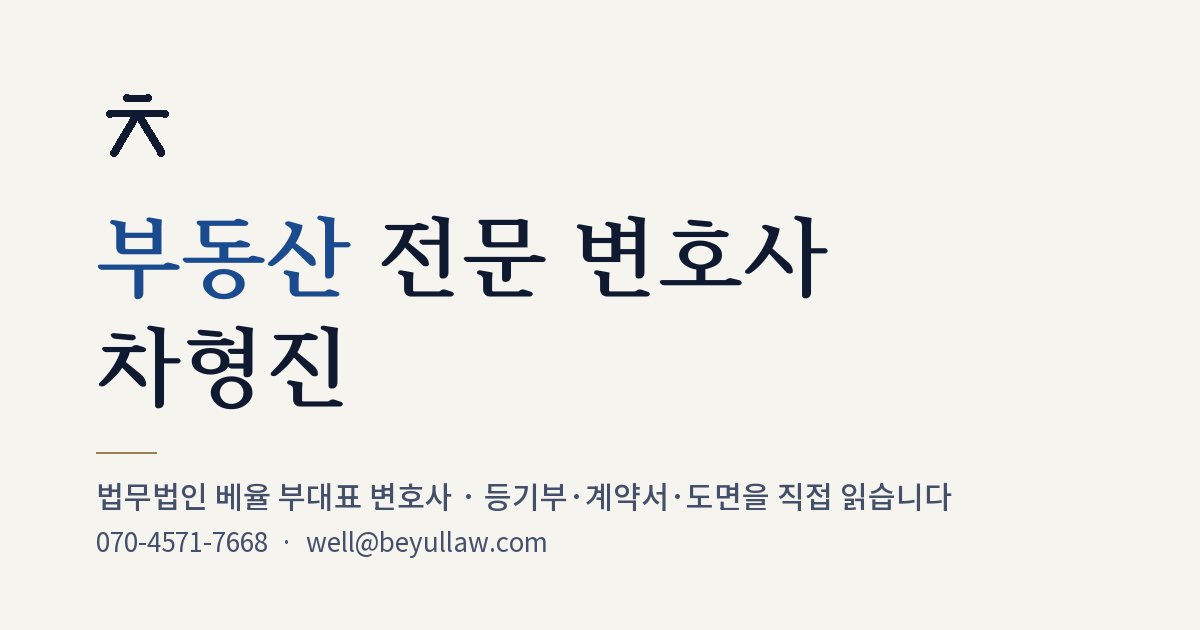
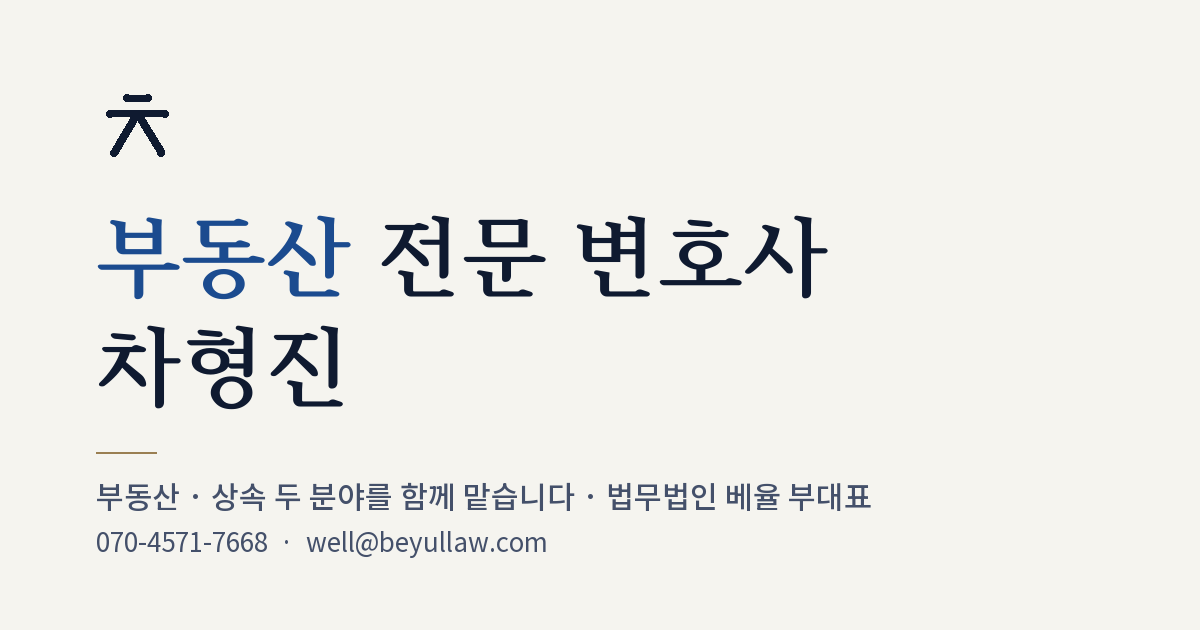
두 분야 통일: 상단 상속/부동산 전환 바, 각 홈 교차 안내 띠(CrossBand), 푸터 두 분야 안내, 소개 페이지 직함·칩·담당 분야, 구조화 데이터 knowsAbout 합침, OG 보조 문구

Changed region(s): [[0.0617, 0.754, 0.8017, 0.8143]]

diff --git a/src/styles/theme.css b/src/styles/theme.css
@@ -238,3 +238,22 @@ body .list a:hover { background: rgba(255,255,255,.7); }
   body .mk .art .ico * { stroke-dashoffset: 0 !important; animation: none !important; }
   body .btn::after { display: none; }
 }
+
+/* ---------- 두 분야 전환 바(2026.10.22): 상속·부동산 하위 사이트 공통 ---------- */
+body .sitebar { background: #0F1A30; color: #C3CAD9; font-size: 12.5px; letter-spacing: -.02em; }
+body .sitebar .in { max-width: var(--maxw); margin: 0 auto; padding: 7px max(22px, env(safe-area-inset-left, 0px)) 7px max(22px, env(safe-area-inset-right, 0px)); display: flex; align-items: center; justify-content: space-between; gap: 12px; }
+body .sitebar .sb-t b { color: #fff; font-weight: 800; }
+body .sitebar .sw { display: inline-flex; gap: 6px; flex: none; }
+body .sitebar .sw a { padding: 3px 11px; border-radius: 999px; border: 1px solid rgba(255,255,255,.28); color: #E6EAF2; text-decoration: none; font-weight: 800; font-size: 12px; line-height: 1.5; transition: background .2s, color .2s; }
+body .sitebar .sw a:hover { background: rgba(255,255,255,.14); }
+body .sitebar .sw a.cur { background: #fff; color: #0F1A30; border-color: #fff; }
+body footer .ftwo { margin: 22px 0 6px; padding: 16px 18px; border: 1px solid rgba(255,255,255,.14); border-radius: 12px; display: grid; gap: 6px; font-size: 13.5px; color: #B9C2D6; }
+body footer .ftwo b { color: #F5F4EF; font-family: var(--display); font-weight: 700; font-size: 15px; }
+body footer .ftwo a { color: var(--brass-lt); font-weight: 700; }
+body .crossband { border-top: 1px solid rgba(154,127,82,.25); border-bottom: 1px solid rgba(154,127,82,.25); background: linear-gradient(170deg, #FBFAF7, #F3F1EA); }
+body .mk .crossband h2 { font-family: var(--display); }
+@media (max-width: 640px) {
+  body .sitebar { font-size: 12px; }
+  body .sitebar .in { padding-top: 6px; padding-bottom: 6px; gap: 8px; }
+  body .sitebar .sb-t { white-space: nowrap; overflow: hidden; text-overflow: ellipsis; }
+}

diff --git a/scripts/make_og.py b/scripts/make_og.py
@@ -49,7 +49,7 @@ d.text((96, 300), '차형진', font=t1, fill=INK)
 d.line((96, 452, 156, 452), fill=BRASS, width=2)
 s1 = font(sans, 30, 'Medium')
 s2 = font(sans, 26, 'Regular')
-d.text((96, 478), '법무법인 베율 부대표 변호사 · ' + ('등기부·계약서·도면을 직접 읽습니다' if RE else '상담도 재판도 변호사가 직접 합니다'), font=s1, fill=INK2)
+d.text((96, 478), '부동산 · 상속 두 분야를 함께 맡습니다 · 법무법인 베율 부대표', font=s1, fill=INK2)
 d.text((96, 526), '070-4571-7668  ·  well@beyullaw.com', font=s2, fill=INK2)
 
 out = os.path.join(os.path.dirname(os.path.dirname(os.path.abspath(__file__))), 'public', 'og-re.png' if RE else 'og.png')

diff --git a/README.md b/README.md
@@ -35,6 +35,8 @@ functions/api/contact.js    Cloudflare Pages Function — 상담 폼 수신(Rese
 public/                     robots.txt, favicon.svg, og.png
 ```
 
+> **2026.10.22 두 분야 통일**: 어느 사이트에서 봐도 "부동산·상속 두 분야를 함께 맡는 한 변호사"로 읽히도록 상단에 상속/부동산 전환 바(`Base.astro` `.sitebar`), 각 홈에 '다른 분야도 같은 변호사가 맡습니다' 띠(`CrossBand.astro`), 푸터 안내(`.ftwo`), 소개 페이지 직함·칩·담당 분야, 구조화 데이터(knowsAbout 두 분야 합침), OG 보조 문구를 맞췄습니다. 페이지 제목의 '상속 전문'·'부동산 전문'은 검색용으로 그대로 둡니다.
+
 > **2026.10.22 부동산 안내 페이지**: 절차 안내 4편(`/real-estate/guide`)과 상황별 안내 4편(`/real-estate/situations`)을 추가했습니다. 원본은 같은 `src/content/guides/*.json`이고 `site: re`로 구분합니다(`/admin`→'안내 페이지'→'사이트').
 
 > **2026.10.22 부동산 전문 하위 사이트 `/real-estate`**: 같은 도메인 아래 별도 사이트처럼 동작합니다. 홈(`src/pages/real-estate/index.astro`, 상속 홈과 같은 마케터 구성)·소개(`/real-estate/lawyer`)·분야 6개(`src/content/areas/re-*.json`, 10.16 개편 때 지웠던 것을 복원)·칼럼 목록(`/real-estate/columns`, 부동산·꿀팁 코너)·FAQ·비용·상담(`ConsultFormRe.astro`, 신청서에 '중요한 날짜·걸린 금액' 항목). 레이아웃은 `Base.astro`의 `variant`(주소가 `/real-estate`로 시작하면 자동)로 메뉴·브랜드 꼬리표·푸터·OG 이미지(`og-re.png`)·구조화 데이터가 바뀝니다. 글 페이지는 코너가 부동산·꿀팁이면 부동산 틀로 보입니다. 검색 문안은 `src/data/seo.ts`, 공용 FAQ는 `src/data/realestate.ts`.
